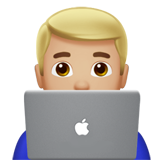
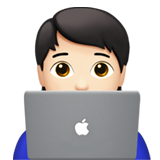
Changed the working emoji, added a phone number

Changed region(s): [[0.1875, 0.0312, 0.8125, 0.5938], [0.0625, 0.9688, 0.0938, 1.0]]

diff --git a/js/main.js b/js/main.js
@@ -14151,7 +14151,7 @@ window.onload = titleMarquee;
                 });
               },
               className : "logo",
-              children : "Ryan"
+              children : "Rayan"
             }), (0, nMinutes.jsxs)("ul", {
               children : [mod.map(function(params) {
                 return(0, nMinutes.jsx)("li", {
@@ -14242,7 +14242,7 @@ window.onload = titleMarquee;
         img :"https://skillicons.dev/icons?i=mysql,php&theme=light",
         id : 4
       }, {
-      img : "https://skillicons.dev/icons?i=cs,asp&theme=light",
+      img : "https://skillicons.dev/icons?i=cs,dotnet&theme=light",
       id: 5
     }];
       /**
@@ -14469,7 +14469,7 @@ window.onload = titleMarquee;
           })
         });
       };
-                
+//////////////////////////
       var selectorElem = get("map-search", "IconMapSearch", [["path", {
         d : "M11 18l-2 -1l-6 3v-13l6 -3l6 3l6 -3v7.5",
         key : "svg-0"
@@ -14486,6 +14486,15 @@ window.onload = titleMarquee;
         d : "M20.2 20.2l1.8 1.8",
         key : "svg-4"
       }]]);
+
+      var phone = get("phone", "IconPhone", [["path", {
+        d:"", // phone icon
+        key :"svg-0"
+      }], ["path", {
+        d: "", // phone icon
+        key: "svg-1"
+      }]])
+
       var domain = get("mail", "IconMail", [["path", {
         d : "M3 7a2 2 0 0 1 2 -2h14a2 2 0 0 1 2 2v10a2 2 0 0 1 -2 2h-14a2 2 0 0 1 -2 -2v-10z",
         key : "svg-0"
@@ -14493,6 +14502,7 @@ window.onload = titleMarquee;
         d : "M3 7l9 6l9 -6",
         key : "svg-1"
       }]]);
+      
       /**
        * @return {?}
        */
@@ -14544,6 +14554,23 @@ window.onload = titleMarquee;
                         href : "mailto:rayanlouahche2004@gmail.com",
                         children : "rayanlouahche2004@gmail.com"
                       })]
+                    }),
+                      (0, nMinutes.jsxs)("div", {
+                      className : "contact__icon-box",
+                      children : [(0, nMinutes.jsx)("span", {
+                        children : (0, nMinutes.jsx)(phone, {
+                          width : 30,
+                          height : 30
+                        })
+                      }), (0, nMinutes.jsxs)("div", {
+                        className : "contact__info",
+                        children : [(0, nMinutes.jsx)("h3", {
+                          children : "Phone"
+                        }), (0, nMinutes.jsx)("a", {
+                          children : "+44 7479 421186"
+                        })]
+                      }), 
+                      ]
                     })]
                   })]
                 })]
